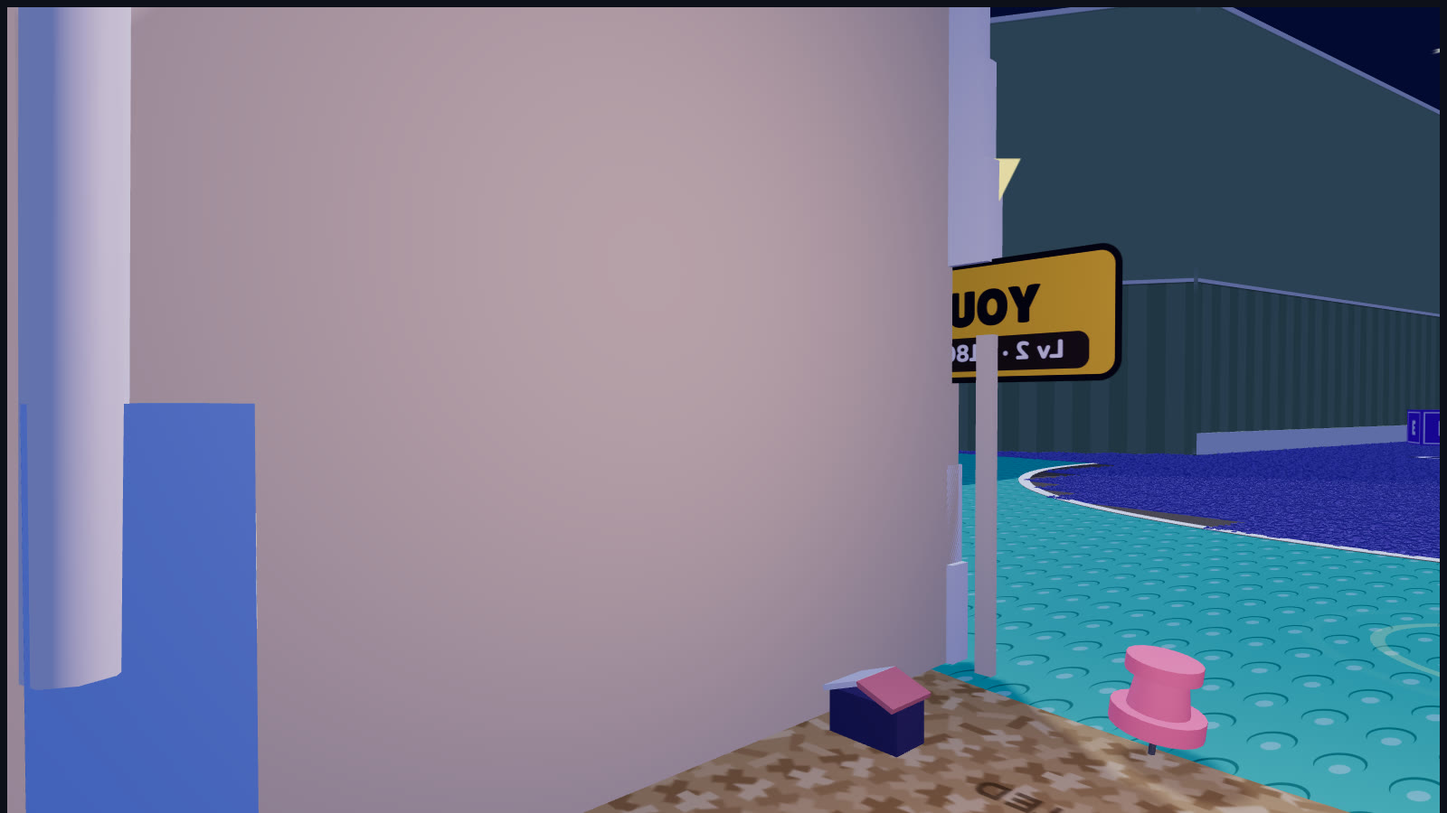
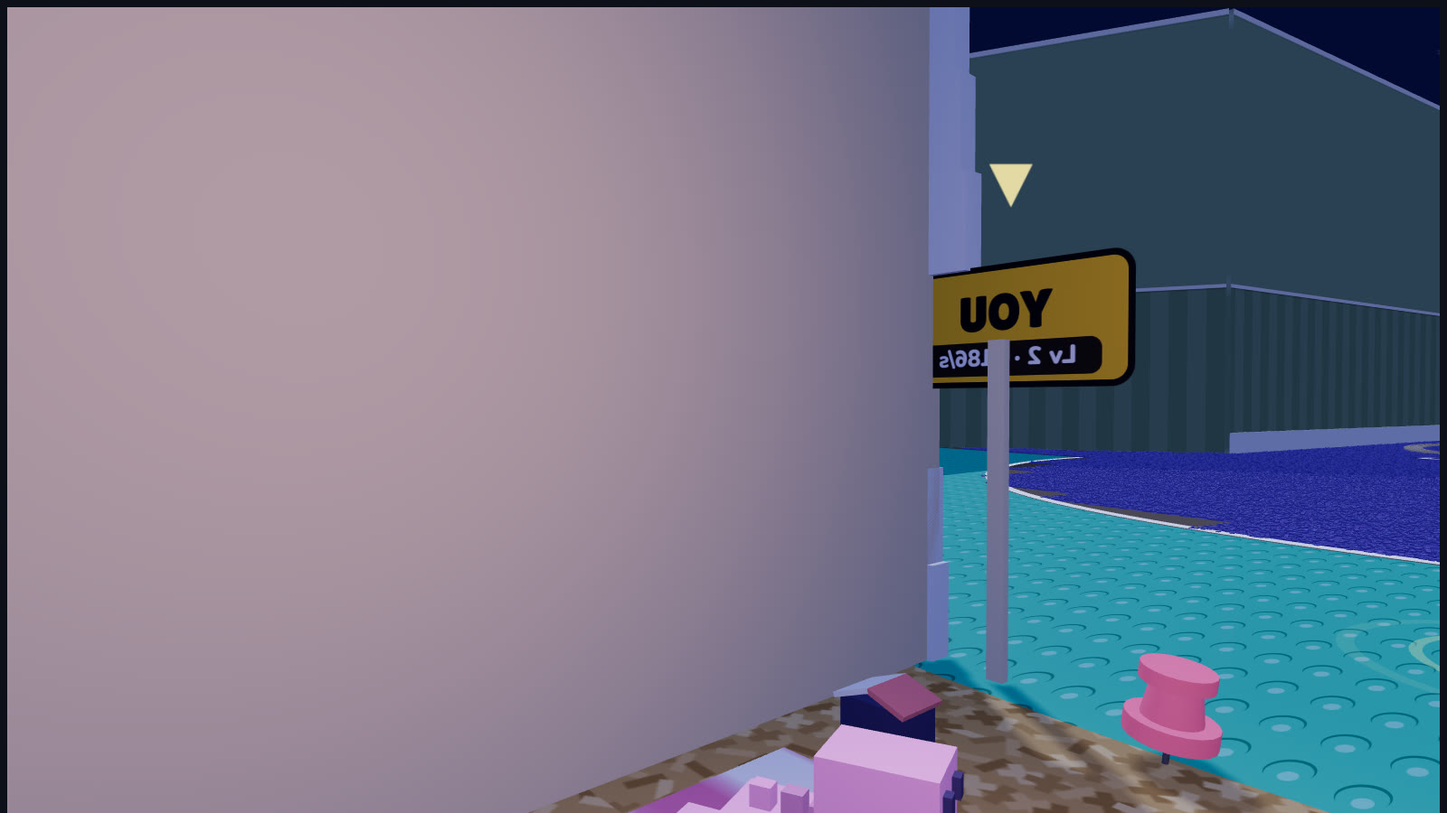
Bedroom v6 renders: winding 5-car train, bigger homes with roaming toy pens, levelled wheels, cat pounces with lights on

diff --git a/design/bedroom-v6-render.html b/design/bedroom-v6-render.html
@@ -76,7 +76,7 @@ html.shot .view{aspect-ratio:auto;height:100vh;border:0;border-radius:0}
       <tbody>
         <tr><td>Room</td><td>420 wide, 1700 long, 320 tall</td><td>The hallway door (130 wide) straight ahead in the far wall</td></tr>
         <tr><td>Homes</td><td>8 in a half-circle wall, radius 340</td><td>Each 120 wide and 110 deep, open to the top plate; a safe zone 140 deep in front</td></tr>
-        <tr><td>Carpet (Small)</td><td>start–900</td><td>Noise x1; the block tower (left) and the train's long oval track</td></tr>
+        <tr><td>Carpet (Small)</td><td>start–900</td><td>Noise x1; the block tower (left) and the winding train track</td></tr>
         <tr><td>Wood (Medium)</td><td>900–1300</td><td>Noise x2; the cat, the desk (left)</td></tr>
         <tr><td>Creaky boards (Large)</td><td>1300–1700</td><td>Noise x3; the bed (right), loose planks, the baby monitor patch</td></tr>
       </tbody>
@@ -11624,8 +11624,8 @@ f 1921/18 1923/18 1924/18
    left wall and the open hallway door straight ahead. Kept simple: big readable shapes, few props.
    Night lighting follows Dylan's photo 2, "lights on" follows photo 1. Studs: x across, z down the room from the start. */
 const HW=210, LEN=1700, WALL_H=320;
-const BW=120, BD=110, N=8, CR=340, CZ0=340, STEP=22.5, HOLE_A=i=>270+(i-3.5)*STEP; // homes round the curved start wall
-const SAFE_R=200, CARPET_Z=900, WOOD_Z=1300, SH_Z=470; // safe zone r 200-340 in front of the homes; carpet (Small, x1) < 1080 < wood (Medium, x2) < 1600 < creaky (Large, x3)
+const BW=130, BD=170, N=8, CR=380, CZ0=380, STEP=22.5, HOLE_A=i=>270+(i-3.5)*STEP; // homes round the curved start wall
+const SAFE_R=240, CARPET_Z=900, WOOD_Z=1300, SH_Z=510; // safe zone r 240-380 in front of the homes; carpet (Small, x1) < 1080 < wood (Medium, x2) < 1600 < creaky (Large, x3)
 const DOOR_W=130, DOOR_H=230; // the open hallway door, centred in the far wall
 const deg=d=>d*Math.PI/180;
 const PC=(r,a)=>[r*Math.cos(deg(a)),CZ0+r*Math.sin(deg(a))];
@@ -11683,9 +11683,9 @@ function buildRoom(){
   floorLabel('CREAKY · LARGE · NOISE x3',90,WOOD_Z+50,300,'#FFB0A8');
   const base=M(0xE6E1D6,{r:.7}),trim=M(0xF1EBDD,{r:.6}),wp=wallMat(1/48,1/WALL_H),sage=M(0x8A9E78,{r:.9});
   // the curved start wall: solid wall between the homes (and at both ends), the homes themselves are open bays
-  for(let i=0;i<N-1;i++)prism([corner(i,65,0),corner(i+1,-65,0),corner(i+1,-65,BD+8),corner(i,65,BD+8)],WALL_H,[sage,wp]);
-  prism([[-(CR+10),CZ0],corner(0,-65,0),corner(0,-65,BD+8),[-(CR+BD+20),CZ0]],WALL_H,[sage,wp]);
-  prism([corner(N-1,65,0),[CR+10,CZ0],[CR+BD+20,CZ0],corner(N-1,65,BD+8)],WALL_H,[sage,wp]);
+  for(let i=0;i<N-1;i++)prism([corner(i,BW/2+5,0),corner(i+1,-BW/2-5,0),corner(i+1,-BW/2-5,BD+8),corner(i,BW/2+5,BD+8)],WALL_H,[sage,wp]);
+  prism([[-(CR+10),CZ0],corner(0,-BW/2-5,0),corner(0,-BW/2-5,BD+8),[-(CR+BD+20),CZ0]],WALL_H,[sage,wp]);
+  prism([corner(N-1,BW/2+5,0),[CR+10,CZ0],[CR+BD+20,CZ0],corner(N-1,BW/2+5,BD+8)],WALL_H,[sage,wp]);
   // shoulders in to the run, and the long walls
   [-1,1].forEach(s=>{const a=[s*(CR+10),CZ0],b=[s*HW,SH_Z],L=Math.hypot(b[0]-a[0],b[1]-a[1]);
     const w=box(8,WALL_H,L,wallMat(L/48),(a[0]+b[0])/2+s*4,0,(a[1]+b[1])/2);w.rotation.y=Math.atan2(b[0]-a[0],b[1]-a[1]);
@@ -11820,21 +11820,21 @@ function baseInterior(i,pl){
   const fc=FAIRY[L],bulbs=[];for(let k=0;k<9;k++){const x=-50+k*12.5,y=62-Math.sin(k/8*Math.PI)*1.5-2.2;const b=new THREE.Mesh(new THREE.SphereGeometry(1.2,10,8),new THREE.MeshBasicMaterial({color:k%2?fc:0xFFF1C8}));b.position.set(x,y,cz+1.6);g.add(b);const gl=glow(fc,10,.6,g);gl.position.copy(b.position);bulbs.push(gl)}
   animated.push(t=>bulbs.forEach((b,k)=>{b.material.opacity=.45+.25*Math.sin(t*2+k*1.3+i)}));
   const fl=new THREE.PointLight(fc,L===6?1.3:1,120,1.6);fl.position.set(0,50,ZM);g.add(fl);
-  // slots with the owner's awake toys; cash pile, push-pin lock, matchbook Index, spool wheel, matchbox bed
-  const capC=[0xE04848,0x4DA8FF,0x3DDC97,0xFFC93C],nSlots=SLOTS_AT[L-1],nail=M(0xB8BFC8,{m:.8,r:.3});
-  SLOT_OFFS.slice(0,nSlots).forEach(([lx,lz],k)=>{const [x,z]=at(lx,lz);let top=1.6;
-    if(L===2)padMesh('sock',g,x,z,k);else if(L===3){padMesh('brick',g,x,z,k);top=4}else if(L===4)padMesh('stump',g,x,z,k);
-    else{const col=L===7?0xFFC93C:L===5?[0xFF8FC8,0xFFFFFF,0x8FE8D0][k%3]:L===6?0x1A1430:capC[k%4];
-      const cap=new THREE.Mesh(new THREE.CylinderGeometry(6,6,1.6,20),M(col,{m:L===7||L<5?.55:.1,r:.35}));cap.position.set(x,.8,z);cap.castShadow=cap.receiveShadow=true;g.add(cap);
-      const rim=new THREE.Mesh(new THREE.TorusGeometry(6,.45,6,24),L===6?M(0x7AE8FF,{e:0x7AE8FF,ei:1.2}):M(new THREE.Color(col).multiplyScalar(.7),{m:.4,r:.4}));rim.rotation.x=Math.PI/2;rim.position.set(x,1.6,z);g.add(rim)}
-    if(k<pl.toys){const sz=k%5===4?'L':k%2?'M':'S';awakeToy(g,x,z,sz,TOY_COLS[(i*3+k)%TOY_COLS.length],k*1.3+i+(s<0?Math.PI:0),null,top-1)}});
+  // the toy pen: the back of the home is the owner's toys' own floor, dressed for the level; the toys roam it freely
+  const nail=M(0xB8BFC8,{m:.8,r:.3}),PZ0=40,PZ1=BD-12,PW=BW-14;
+  const penMat=L===1?M(0xC49A6C,{r:.9}):L===2?M(0xffffff,{map:stripeTex('#F28DB2','#FFFFFF',12),r:.95}):L===3?M(0xffffff,{map:(()=>{const t=studTex(0x3DA5FF);t.repeat.set(PW/5,(PZ1-PZ0)/5);return t})(),r:.45})
+    :L===4?M(0xffffff,{map:plankTex('#C89A62','#9C7246',2,2),r:.85}):L===5?M(0xffffff,{map:stripeTex('#FF8FC8','#FFFFFF',14),r:.6}):L===6?M(0x1A1430,{r:.4,e:0x2A1A60,ei:.4}):M(0xFFC93C,{m:.7,r:.3,e:0x5A3A00,ei:.2});
+  box(PW,.6,PZ1-PZ0,penMat,0,0,-(PZ0+PZ1)/2,null,g);
+  if(L===6)[PZ0,PZ1].forEach(z=>box(PW,.8,1,M(0x7AE8FF,{e:0x7AE8FF,ei:1.6}),0,.4,-z,null,g));
+  for(let k=0;k<pl.toys;k++){const sz=k%5===4?'L':k%2?'M':'S',x=-PW/2+8+((k*37+i*11)%(PW-16)),z=-(PZ0+6+((k*53+i*7)%(PZ1-PZ0-12)));
+    awakeToy(g,x,z,sz,TOY_COLS[(i*3+k)%TOY_COLS.length],k*1.7+i,null,0);const r=roamers.pop();r.pen=[-PW/2+6,PW/2-6,-(PZ1-6),-(PZ0+4)];r.speed*=.8;penToys.push(r)}
   {const [x,z]=at(28,14);const th=new THREE.Mesh(new THREE.CylinderGeometry(5.5,4.8,8,22,1,true),M(0xC9CED8,{m:.8,r:.3,side:THREE.DoubleSide}));th.position.set(x,4,z);g.add(th);
     const coin=M(0xF2C94C,{m:.7,r:.3,e:0x6B4E00,ei:.25});for(let k=0;k<16;k++){const c=new THREE.Mesh(new THREE.CylinderGeometry(1.8,1.8,.6,14),coin);const an=k*2.4,rr=k<10?Math.sqrt(k)*1.1:4+((k*3)%5);c.position.set(x+Math.cos(an)*rr,k<10?6+Math.max(0,3-rr):.3,z+Math.sin(an)*rr);c.rotation.set(Math.sin(k)*.4,0,Math.cos(k)*.4);g.add(c)}}
   {const [x,z]=at(-30,12),pin=new THREE.Group();pin.position.set(x,0,z);pin.rotation.z=.12;g.add(pin);const red=M(pl.locked?0x8A1F2A:0xFF4D5E,{r:.35,e:pl.locked?0:0x5A0A12,ei:.5});
     const nd=new THREE.Mesh(new THREE.CylinderGeometry(.35,.35,3,8),nail);nd.position.y=1.5;pin.add(nd);
     [[4.5,4.5,2,4],[2.4,3,4,7],[3.6,3.6,1.6,9.6]].forEach(([a,b,h,y])=>{const m=new THREE.Mesh(new THREE.CylinderGeometry(a,b,h,20),red);m.position.y=y;m.castShadow=true;pin.add(m)})}
   {const [x,z]=at(-52,30);box(9,5,5,M(0x1A1430,{r:.4}),x,0,z,null,g);[-1,1].forEach(q=>{const c=box(5,.6,7,M(q<0?0xE04848:0xF4F1E8,{r:.6}),x+q*2.3,5.6,z,null,g);c.rotation.z=q*-.35})}
-  {const [x,z]=at(50,22);trainingWheel(g,x,z)}
+  {const [x,z]=at(50,22);levelWheel(g,x,z,L)}
   {const [x,z]=at(0,24);box(16,3.4,10,M(0xE8D2A8,{r:.8}),x,0,z,null,g);box(9,3.8,10.4,M(0x2F6FB9,{r:.6}),x+4,0,z,null,g);box(11,1,8,M(0xffffff,{map:stripeTex('#F28DB2','#FFFFFF',6),r:.95}),x-1.5,3.4,z,null,g);
     const sp=new THREE.Mesh(new THREE.RingGeometry(9,10.5,32),new THREE.MeshBasicMaterial({color:0x3DDC97,transparent:true,opacity:.6,side:THREE.DoubleSide}));sp.rotation.x=-Math.PI/2;sp.position.set(x,.12,z);g.add(sp)}
   if(L===7)[[-56,6],[56,6]].forEach(([lx,lz])=>{const [x,z]=at(lx,lz);for(let k=0;k<12;k++){const c=new THREE.Mesh(new THREE.CylinderGeometry(3,3,1,16),gold);c.position.set(x,.5+k*1.05,z);g.add(c)}});
@@ -11845,6 +11845,27 @@ function baseInterior(i,pl){
   if(pl.me){const arrow=textSprite('▼',{w:64,h:64,sx:9,sy:9,bg:null,color:'#FFC93C',font:'900 60px Nunito, sans-serif',parent:g});arrow.position.set(54,66,0);animated.push(t=>{arrow.position.y=66+Math.sin(t*3)*1.5})}
   if(pl.locked){const bar=M(0xFF4D5E,{r:.4,m:.3,e:0x5A0A12,ei:.6});for(let k=0;k<12;k++){const b=new THREE.Mesh(new THREE.CylinderGeometry(.8,.8,30,10),bar);b.position.set(-55+k*10,15,1);b.castShadow=true;g.add(b)}box(BW,1.6,1.6,bar,0,30,1,null,g)}
 }
+
+// Toys wander their home's pen: pick a spot, walk there with a hop, pause, pick another.
+const penToys=[];
+function penRoam(dt,t){penToys.forEach(r=>{const p=r.t.position,[x0,x1,z0,z1]=r.pen;
+  if(r.wait>0){r.wait-=dt;p.y=r.y0+Math.abs(Math.sin(t*2+r.ph))*.25;return}
+  if(r.tx===undefined||Math.hypot(r.tx-p.x,r.tz-p.z)<.8){r.tx=x0+Math.random()*(x1-x0);r.tz=z0+Math.random()*(z1-z0);r.wait=.6+Math.random()*2.5;return}
+  const dx=r.tx-p.x,dz=r.tz-p.z,d=Math.hypot(dx,dz),s=Math.min(d,r.speed*dt);p.x+=dx/d*s;p.z+=dz/d*s;p.y=r.y0+Math.abs(Math.sin(t*9+r.ph))*.9;
+  const want=Math.atan2(-dz,dx);let diff=want-r.t.rotation.y;diff=Math.atan2(Math.sin(diff),Math.cos(diff));r.t.rotation.y+=diff*Math.min(1,dt*6)})}
+// The Speed wheel levels up with the home: bigger, and made of better stuff each level.
+function levelWheel(g,x,z,L){
+  const R=6.5+L*.55,W=7+L*.3,w=new THREE.Group();w.position.set(x,R+2.2,z);g.add(w);const spin=new THREE.Group();w.add(spin);
+  const look={1:[0xD9B27C,0xFFC93C,0x8A5A34],2:[0xF28DB2,0xFFFFFF,0x7FD6E8],3:[0xE04848,0xFFC93C,0x4DA8FF],4:[0xB07A48,0xE8C890,0x6B4A2E],5:[0xFF8FC8,0xFFFFFF,0x8FE8D0],6:[0x1A1430,0x7AE8FF,0x9B7BFF],7:[0xFFC93C,0xFFF1B0,0xD9A21E]}[L];
+  const side=M(look[0],{r:L===7?.3:.7,m:L===7?.75:0}),rung=M(look[1],{r:.5,e:L===6?look[1]:0,ei:L===6?1.4:1}),frame=M(look[2],{r:.6,m:L===7?.7:0});
+  [-W/2,W/2].forEach(sx=>{const d=new THREE.Mesh(new THREE.CylinderGeometry(R,R,.9,32),side);d.rotation.z=Math.PI/2;d.position.x=sx;spin.add(d);
+    if(L>=3){const rim=new THREE.Mesh(new THREE.TorusGeometry(R,.5,8,32),L===6?M(look[2],{e:look[2],ei:1.5}):frame);rim.rotation.y=Math.PI/2;rim.position.x=sx*1.06;spin.add(rim)}});
+  const nr=14+L*2;for(let k=0;k<nr;k++){const a=k/nr*Math.PI*2,r2=new THREE.Mesh(new THREE.CylinderGeometry(.4,.4,W-.2,8),rung);r2.rotation.z=Math.PI/2;r2.position.set(0,Math.cos(a)*(R-.5),Math.sin(a)*(R-.5));spin.add(r2)}
+  [-W/2-1.4,W/2+1.4].forEach(sx=>{box(1.4,R+2.2,1.4,frame,sx,-R-2.2,-3,null,w);box(1.4,R+2.2,1.4,frame,sx,-R-2.2,3,null,w);box(1.6,1.6,7.6,frame,sx,-1,0,null,w)});
+  if(L===7)glow(0xFFE07A,R*3.4,.35,w);if(L===6)glow(0x7AE8FF,R*3.4,.3,w);
+  const tag=textSprite(`SPEED · Lv ${L}`,{w:256,h:56,sx:13,sy:2.85,font:'900 30px Nunito, sans-serif',bg:'rgba(77,168,255,.95)',color:'#1A1430',parent:w});tag.position.set(0,R+3,0);
+  animated.push(t=>{spin.rotation.x=-t*(1.2+L*.25)})}
+
 function bases(){BASES.forEach((p,i)=>baseInterior(i,p))}
 // Studs on a top surface: one tiled texture on a thin plane, not thousands of parts.
 function studTop(w,d,col,x,y,z,parent,rep=5){const t=studTex(col);t.repeat.set(w/rep,d/rep);const m=new THREE.Mesh(new THREE.PlaneGeometry(w,d),M(0xffffff,{map:t,r:.45}));m.rotation.x=-Math.PI/2;m.position.set(x,y+.08,z);m.receiveShadow=true;(parent||root).add(m);return m}
@@ -12021,15 +12042,15 @@ function glowTex(){if(glowTex.t)return glowTex.t;const c=document.createElement(
 function glow(color,size,opacity=.6,parent){const s=new THREE.Sprite(new THREE.SpriteMaterial({map:glowTex(),color,transparent:true,opacity,blending:THREE.AdditiveBlending,depthWrite:false,fog:false}));s.scale.set(size,size,1);(parent||root).add(s);return s}
 function starTex(){if(starTex.t)return starTex.t;const c=document.createElement('canvas');c.width=c.height=64;const g=c.getContext('2d');g.fillStyle='#fff';g.shadowColor='#fff';g.shadowBlur=8;g.beginPath();for(let k=0;k<10;k++){const r=k%2?11:28,a=-Math.PI/2+k*Math.PI/5;g.lineTo(32+Math.cos(a)*r,32+Math.sin(a)*r)}g.fill();starTex.t=new THREE.CanvasTexture(c);return starTex.t}
 /* ---------- Landmarks ---------- */
-const TOWER=[65,820];
-// the train track: an oval (stadium) centred on the run, straights at x = +-TRACK_X, ends swinging across the run
-const TRACK_X=120,TRACK_ZC=910,TRACK_HL=180,TRACK_P=4*TRACK_HL+2*Math.PI*TRACK_X;
-function trackPt(s){s=((s%TRACK_P)+TRACK_P)%TRACK_P;const R2=TRACK_X,L=2*TRACK_HL,A=Math.PI*R2;
-  if(s<L)return [R2,TRACK_ZC-TRACK_HL+s,0,1];s-=L;
-  if(s<A){const f=s/R2;return [R2*Math.cos(f),TRACK_ZC+TRACK_HL+R2*Math.sin(f),-Math.sin(f),Math.cos(f)]}s-=A;
-  if(s<L)return [-R2,TRACK_ZC+TRACK_HL-s,0,-1];s-=L;
-  const f=Math.PI+s/R2;return [R2*Math.cos(f),TRACK_ZC-TRACK_HL+R2*Math.sin(f),-Math.sin(f),Math.cos(f)]}
-const nearTrack=(x,z,r)=>{const d=z>TRACK_ZC-TRACK_HL&&z<TRACK_ZC+TRACK_HL?Math.abs(Math.abs(x)-TRACK_X):Math.abs(Math.hypot(x,z-(z>TRACK_ZC?TRACK_ZC+TRACK_HL:TRACK_ZC-TRACK_HL))-TRACK_X);return d<8+r};
+const TOWER=[45,800];
+// the train track: a winding loop. It snakes down the left side, crosses the run by the bed, snakes back up the right
+// side and crosses again near the start, so the train covers a lot of ground and cuts across the run twice.
+const TRACK_CURVE=new THREE.CatmullRomCurve3([[140,640],[175,760],[125,880],[165,1000],[115,1120],[140,1220],[40,1250],[-70,1235],
+  [-150,1170],[-105,1050],[-160,930],[-100,810],[-150,700],[-110,610],[-20,585],[70,600]].map(([x,z])=>new THREE.Vector3(x,0,z)),true,'centripetal');
+const TRACK_P=TRACK_CURVE.getLength();
+function trackPt(s){const u=(((s%TRACK_P)+TRACK_P)%TRACK_P)/TRACK_P,p=TRACK_CURVE.getPointAt(u),t=TRACK_CURVE.getTangentAt(u);return [p.x,p.z,t.x,t.z]}
+const TRACK_SAMPLES=Array.from({length:500},(_,k)=>trackPt(k*TRACK_P/500));
+const nearTrack=(x,z,r)=>TRACK_SAMPLES.some(([px,pz])=>Math.hypot(px-x,pz-z)<8+r);
 function letterTex(ch,bg,fg){return canvasTex((g,S)=>{g.fillStyle=bg;g.fillRect(0,0,S,S);g.fillStyle='rgba(255,255,255,.9)';g.fillRect(14,14,S-28,S-28);g.fillStyle=bg;g.fillRect(24,24,S-48,S-48);g.fillStyle=fg;g.font='400 150px "Lilita One", sans-serif';g.textAlign='center';g.textBaseline='middle';g.fillText(ch,S/2,S/2+8)},256)}
 let TRAIN=null;
 function blockTower(){
@@ -12041,7 +12062,7 @@ function blockTower(){
   for(let k=0;k<20;k++){const th=deg(200+k*30),r=27,g=new THREE.Group();g.position.set(tx+Math.cos(th)*r,6*k,tz+Math.sin(th)*r);g.rotation.y=-th;root.add(g);
     box(22,4,13,SC[k%5],0,2,0,{r:.35},g);studTop(22,13,SC[k%5],0,6,0,g,4.4)}
   // a fallen block between the track and the wall, as a hiding spot
-  const fb=box(30,30,30,M(0xffffff,{map:letterTex('E','#9246D4','#FFFFFF'),r:.55}),168,0,760);fb.rotation.set(0,.6,0);
+  const fb=box(30,30,30,M(0xffffff,{map:letterTex('E','#9246D4','#FFFFFF'),r:.55}),-188,0,760);fb.rotation.set(0,.6,0);
   // the wooden train track: a long oval down both sides of the run that swings across it at each end
   const wood=M(0xD2A86E,{r:.75}),groove=M(0x8A6236,{r:.9}),n=Math.ceil(TRACK_P/4.2),m4=new THREE.Matrix4(),q=new THREE.Quaternion(),up=new THREE.Vector3(0,1,0),one=new THREE.Vector3(1,1,1);
   const bed=new THREE.InstancedMesh(new THREE.BoxGeometry(4.6,1.6,11),wood,n),gr=new THREE.InstancedMesh(new THREE.BoxGeometry(4.6,.3,1),groove,n*2);
@@ -12051,17 +12072,17 @@ function blockTower(){
   bed.receiveShadow=true;root.add(bed,gr);
   TRAIN=new THREE.Group();root.add(TRAIN);const cars=[];
   const wheel=(g,x,z)=>{const w=new THREE.Mesh(new THREE.CylinderGeometry(2.4,2.4,1.4,14),M(0x1A1430,{r:.5}));w.rotation.x=Math.PI/2;w.position.set(x,2.8,z);g.add(w)};
-  for(let k=0;k<3;k++){const g=new THREE.Group();g.scale.setScalar(1.4);TRAIN.add(g);cars.push(g);const c=[0xE04848,0x4DA8FF,0x3DDC97][k];
+  for(let k=0;k<5;k++){const g=new THREE.Group();g.scale.setScalar(1.4);TRAIN.add(g);cars.push(g);const c=[0xE04848,0x4DA8FF,0x3DDC97,0xFFC93C,0x9B7BFF][k];
     box(18,6,10,c,0,3,0,{r:.4},g);[-6,6].forEach(x=>[-5.4,5.4].forEach(z=>wheel(g,x,z)));
     if(k===0){box(7,10,10,c,-5,9,0,{r:.4},g);box(8,2,11,M(0x1A1430),-5,19,0,null,g);const ch=new THREE.Mesh(new THREE.CylinderGeometry(1.8,2.4,6,10),M(0x1A1430));ch.position.set(5,12,0);g.add(ch);box(2,4,6,M(0xFFC93C),9.5,5,0,null,g);glow(0xFFE6A0,14,.8,g).position.set(10.5,7,0)}
-    else{box(8,8,8,[0xFFC93C,0xFF7AA8][k-1],-3,9,0,{r:.4},g);box(6,6,6,[0x9246D4,0xFFC93C][k-1],4,9,0,{r:.4},g)}
+    else{box(8,8,8,[0xFFC93C,0xFF7AA8,0x4DA8FF,0x3DDC97][k-1],-3,9,0,{r:.4},g);box(6,6,6,[0x9246D4,0xFFC93C,0xE04848,0xFF7AA8][k-1],4,9,0,{r:.4},g)}
     g.traverse(o=>{if(o.isMesh)o.castShadow=true})}
   animated.push(t=>{cars.forEach((g,k)=>{const [x,z,hx,hz]=trackPt(t*60+300-k*27);g.position.set(x,1.6+Math.abs(Math.sin(t*14+k))*.25,z);g.rotation.y=Math.atan2(-hz,hx)})});
 }
-let CAT_POS=null;
+let CAT_POS=null,CAT_G=null,CAT_ALERT=null;
 function cat(){
   // a big orange tabby crouched on the wood ring, tail swishing, bell on its collar (you hear it before you see it)
-  const [x,z]=[-20,1150],g=new THREE.Group();g.position.set(x,0,z);g.rotation.y=.4;root.add(g);CAT_POS=[x,z]; // facing along the ring, toward smaller angles
+  const [x,z]=[-20,1150],g=new THREE.Group();g.position.set(x,0,z);g.rotation.y=.4;root.add(g);CAT_POS=[x,z];CAT_G=g; // facing along the ring, toward smaller angles
   const fur=M(0xF28C28,{r:.85}),dark=M(0xC4601A,{r:.85}),cream=M(0xFFE3C2,{r:.85});
   const body=box(70,28,32,fur,0,16,0,null,g);[-22,-6,10,26].forEach(sx=>box(6,28.4,32.4,dark,sx,16,0,null,g));
   box(40,4,26,cream,6,14,0,null,g);
@@ -12121,7 +12142,7 @@ function babyMonitor(){
 /* ---------- Hazards ---------- */
 // footprints of the big pieces, so toys and hazards stay clear of them
 const FOOT=[[-210,1275,-10,1600],[-210,1610,-134,1690],[106,1330,212,1510],[40,1385,112,1455],[-70,1640,70,1700]];
-const FOOT_C=[[65,820,40],[168,760,26]];
+const FOOT_C=[[45,800,40],[-188,760,26]];
 const blocked=(x,z,r)=>FOOT.some(([x0,z0,x1,z1])=>x>x0-r&&x<x1+r&&z>z0-r&&z<z1+r)||FOOT_C.some(([cx,cz,cr])=>Math.hypot(x-cx,z-cz)<cr+r)||Math.abs(x)>HW-r-6||nearTrack(x,z,r);
 function looseBoards(){
   const plank=M(0x9A7853,{r:.85}),edge=M(0x3A2818,{r:1});
@@ -12134,7 +12155,7 @@ function brick(x,z,c,rot,y=0){const g=new THREE.Group();g.position.set(x,y,z);g.
 function hazards(){
   cat();looseBoards();babyMonitor();
   // mouse traps by the walls, out of the middle of the run
-  mouseTrap(-188,850,.15);mouseTrap(188,1000,-.15);mouseTrap(-188,1150,.1);mouseTrap(190,1290,-.1);
+  mouseTrap(-188,850,.15);mouseTrap(190,880,-.15);mouseTrap(-188,1150,.1);mouseTrap(190,1290,-.1);
   // squeaky ducks and loose toy bricks near the Large toys (they squeak and clack)
   squeakyDuck(50,1360,1);squeakyDuck(85,1500,4);
   const BC=[0xE04848,0xFFC93C,0x4DA8FF,0x3DDC97];[[-30,1000],[50,1180],[40,1300],[0,1440],[60,960]].forEach(([x,z],k)=>{brick(x,z,BC[k%4],k*.9);if(k%2===0)brick(x+1.5,z+.8,BC[(k+2)%4],k*.9+.4,3.8)});
@@ -12166,7 +12187,7 @@ function players(){
   const top=avatar(0,0,0x4DA8FF,0,{cap:0xFF7AA8});top.position.set(TOWER[0]+4,120.2,TOWER[1]);faceToward(top,0,1100);
   // heading out of the safe zone, jumping clear of the train, fleeing the cat, and one at the hallway door
   [[-40,420,0xFFC93C,0xE04848],[30,400,0x9B7BFF,0x3DDC97]].forEach(([x,z,c,cap])=>{const a=avatar(x,z,c,0,{cap});faceToward(a,x,z+100);animateAvatar(a,'run',1.4)});
-  const jump=avatar(100,700,0xFF7AA8,0,{cap:null});faceToward(jump,70,660);animateAvatar(jump,'run',1.6);
+  const jump=avatar(-80,600,0xFF7AA8,0,{cap:null});faceToward(jump,-60,560);animateAvatar(jump,'run',1.6);
   const flee=avatar(30,1100,0x3DDC97,0,{cap:0x1A1430});faceToward(flee,60,1040);animateAvatar(flee,'run',1.6);
   const out=avatar(10,1660,0x4DA8FF,0,{cap:0xFFC93C});faceToward(out,10,1760);animateAvatar(out,'run',1.3);
   // a raider inside mia.ttv's gold vault
@@ -12208,6 +12229,9 @@ function setLights(day){
   HEMI.color.setHex(day?0xFFF3DE:0x4058D8);HEMI.groundColor.setHex(day?0x9A8466:0x15132E);HEMI.intensity=day?1.1:.55;
   AMB.color.setHex(day?0xFFF1DC:0x26348A);AMB.intensity=day?.42:.22;
   S(MOON,day?0:.34);S(SUN,day?.6:0);S(CEILL,day?1.05:0);S(LAMP,day?3:2.4);S(WINDOW,day?.35:1.2);S(MONITOR,day?.45:.9);S(NLIGHT,day?.25:.8);
+  // with the lights on the cat gets aggressive: it leaves its patrol and pounces at the nearest mouse
+  if(CAT_G){if(!CAT_ALERT){CAT_ALERT=textSprite('!',{w:64,h:64,sx:14,sy:14,bg:'rgba(255,77,94,.95)',color:'#FFFFFF',font:'900 56px Nunito, sans-serif'});}
+    if(day){CAT_G.position.set(-40,7,1030);CAT_G.rotation.set(0,Math.atan2(-70,70),.18);CAT_ALERT.position.set(-40,64,1030)}else{CAT_G.position.set(-20,0,1150);CAT_G.rotation.set(0,.4,0)}CAT_ALERT.visible=day}
   CEIL.material.color.setHex(day?0xEFE8D8:0x1B2142);renderer.toneMappingExposure=day?.98:.98}
 
 function buildCams(){
@@ -12216,7 +12240,7 @@ function buildCams(){
     ['lightson','Lights on',{pos:[0,290,110],look:[0,0,1000],day:true,flash:true,cap:'Lights on (photo 1): the same room when the Kid wakes up and sits up. The sage walls, wood and colours read true. Seen from anywhere, it means run.'}],
     ['map','Top-down',{pos:[0,2000,880],look:[0,0,879],top:true,xray:true,cap:'Top-down: the curved wall of 8 homes and the safe strip at the start, then the three floor bands with their toys, the bed and nightstand on the right, the desk on the left (as you run toward the door), and the hallway beyond the door.'}],
     ['homes','The homes',{pos:[0,150,760],look:[0,40,170],cap:'Looking back up the run at the curved start wall: all 8 homes side by side in the wall, wall between each one, fronts open so you can see who has what. The teal strip in front of them is the safe zone.'}],
-    ['safe','Leaving home',{pos:[0,14,330],look:[0,22,1300],cap:'What you see stepping out of the safe zone: the bands of toys getting bigger the further you go, and the hallway door at the end.'}],
+    ['safe','Leaving home',{pos:[0,14,370],look:[0,22,1300],cap:'What you see stepping out of the safe zone: the bands of toys getting bigger the further you go, and the hallway door at the end.'}],
     ['run','Down the run',{pos:[30,9,850],look:[10,30,1700],cap:'Mouse height in the carpet band, looking down the run: the wood and creaky bands ahead, the bed on the right, the desk on the left, the open door straight on.'}],
     ['bases','The row of homes',{pos:BP(5,20,40,-260),look:BP(1,0,40,40),cap:'Along the row of homes from the safe strip: open fronts with torn drywall edges, solid wall between neighbours.'}],
     ['yours','Your base',{pos:BP(3,0,32,-150),look:BP(3,0,30,60),cap:'Your base (Level 2, sock-lined): OSB backing, pine studs and blocking, white cables stapled up to the top plate, an outlet box, a fairy light, your toys on their slots, the matchbox bed, the push-pin lock, the spool wheel and the matchbook Index.'}],
@@ -12224,7 +12248,7 @@ function buildCams(){
     ['across','Across the room',{pos:BP(3,0,15,100),look:BP(6,0,30,20),cap:'From the back of your home, looking out across the safe strip at the homes further round the curve.'}],
     ['rich','Level 7 base',{pos:BP(4,0,32,-150),look:BP(4,0,24,60),cap:'mia.ttv\'s Level 7 golden vault: gold over the framing, coin pillars, 20 slots, and sneakyPete raiding it.'}],
     ['l1','Level 1 base',{pos:BP(1,0,32,-150),look:BP(1,0,24,60),cap:'Bloxer99\'s Level 1 base, locked: brown wool insulation between the studs (photo 3), bottle-cap slots and red bars across the front.'}],
-    ['tower','Block tower and train',{pos:[-60,70,640],look:[60,45,820],cap:'The tower on the left of the carpet band, and the train track: a long oval down both sides of the run that swings across it at each end. Time your crossing; get hit and you drop your toy.'}],
+    ['tower','Block tower and train',{pos:[-70,70,620],look:[50,40,800],cap:'The tower on the left of the carpet band, and the train track: a winding loop that snakes down both sides of the run and cuts across it twice. Five cars long. Time your crossing; get hit and you drop your toy.'}],
     ['cat','The cat',{pos:[-80,18,1060],look:[-10,18,1145],cap:'The cat prowls the wood band. You hear its bell first; get close and it pounces.'}],
     ['bed','The bed',{pos:[110,110,1150],look:[-110,55,1450],cap:'The Giant Kid asleep along the right-hand wall: voxel headboard with glow stars, the quilted blue duvet, his arm hanging over the Large toys, and the nightstand lamp by his feet. The baby monitor\'s green patch counts noise double.'}],
     ['flash','Flashlight at 80+',{pos:[150,140,850],look:[-100,80,1500],flash:true,cap:'At 80+ noise the Kid sits up and sweeps a flashlight back down the run. Get caught in the beam carrying a toy and you drop it.'}],
@@ -12271,7 +12295,7 @@ function init(){
 function resize(){const b=document.getElementById('view').getBoundingClientRect();renderer.setSize(b.width,b.height,false);camera.aspect=b.width/b.height;camera.updateProjectionMatrix()}
 let frames=0;
 function loop(){
-  requestAnimationFrame(loop);const t=clock.getElapsedTime(),dt=Math.min(.05,t-(loop.pt??t));loop.pt=t;roam(dt,t);
+  requestAnimationFrame(loop);const t=clock.getElapsedTime(),dt=Math.min(.05,t-(loop.pt??t));loop.pt=t;roam(dt,t);penRoam(dt,t);
   animated.forEach(f=>f(t));
   ripples.forEach(o=>{const p=((t*.6)+o.o)%1;o.r.scale.setScalar(6+p*26);o.r.material.opacity=.75*(1-p)});
   glows.forEach(g=>{const on=((t+g.ph)%6)<1.2;g.m.userData.mat.emissive.setHex(on?g.c:0);g.m.userData.mat.emissiveIntensity=on?.9:0});

diff --git a/design/bedroom-v6-review.html b/design/bedroom-v6-review.html
@@ -57,10 +57,13 @@ dialog p{color:var(--ink);padding:10px 4px 0;font-weight:700}
       <ul>
         <li>All 8 homes in one curved row inside the wall, with solid wall between each home.</li>
         <li>Home fronts are open (drywall torn away), so you see everyone's toys and can look up the studs, blocking and cables to the top.</li>
+        <li>Bigger homes, 130 wide and 170 deep, so the toys can roam: the back of each home is a toy pen, dressed for the level (cardboard, socks, bricks, wood, candy, neon, gold), and the toys wander it freely instead of standing on slots.</li>
+        <li>The Speed hamster wheel levels up with the home: bigger, faster and made of better stuff each level, up to a gold wheel at Level 7.</li>
         <li>A teal safe zone in front of the homes, 140 deep: bigger than the first strip, still much smaller than a whole band.</li>
         <li>A smaller room so the toys and homes read bigger: the run is 420 wide and 1700 long, with walls 320 tall. The bed and furniture are a bit smaller, and the sleeping toys under blankets are about 35% bigger.</li>
         <li>Three bands down the run: carpet (Small toys), wood (Medium), creaky boards (Large), each clearly coloured and labelled.</li>
-        <li>The train track is a long oval down both sides of the run that swings across it at each end, so the train covers about 1,700 studs a lap and you have to time your crossing.</li>
+        <li>The train track is a winding loop: it snakes down both sides of the run and cuts across it twice, near the start and by the bed. The train has 5 cars counting the engine.</li>
+        <li>With the lights on, the cat gets aggressive: it leaves its patrol and pounces at the nearest mouse (photo 16).</li>
         <li>The hallway door is straight ahead at the end. The bed is along the right-hand wall.</li>
         <li>Much less clutter: no sock heap, bookshelf, beanbag, rug or scattered props. Hazards stay: cat, mouse traps, loose boards, baby monitor, flashlight, the train.</li>
       </ul>
@@ -69,7 +72,7 @@ dialog p{color:var(--ink);padding:10px 4px 0;font-weight:700}
       <h2>Still to decide</h2>
       <ul>
         <li>Scale: does the room now feel the right size next to the toys and homes, or shrink it more?</li>
-        <li>The start area round the homes is wider than the run (it needs that width to fit 8 homes in the curve). OK, or would you rather have fewer homes per curve?</li>
+        <li>The start area round the homes is wider than the run: it needs that width to fit 8 bigger homes in the curve. OK, or would you rather have a different shape?</li>
         <li>Night look (photo 2 lighting) as the default, lights-on (photo 1) when the Kid wakes: still right?</li>
       </ul>
     </div>
@@ -87,21 +90,21 @@ dialog p{color:var(--ink);padding:10px 4px 0;font-weight:700}
 <script>
 const PHOTOS=[
   ['hero','The run','From above the homes, looking down the whole room: carpet, wood, creaky boards, the bed and the open door.'],
-  ['homes','The homes','Looking back at the curved wall: 8 homes side by side, wall between each, open fronts, the teal safe zone.'],
-  ['yours','Your home','Level 2, sock-lined: studs, OSB backing, cables up to the top plate, an outlet box, a fairy light, your toys on their slots.'],
-  ['lookup','Looking up','Inside your home: the studs, blocking and cables run all the way to the top plate, 360 studs up.'],
+  ['homes','The homes','Looking back at the curved wall: 8 homes side by side, wall between each, open fronts, toys roaming the pens, the teal safe zone.'],
+  ['yours','Your home','Level 2, sock-lined: studs, OSB backing, cables up to the top plate, a fairy light, your toys roaming their sock pen, and a Level 2 Speed wheel.'],
+  ['lookup','Looking up','Inside your home: the studs, blocking and cables run all the way to the top plate, 320 studs up.'],
   ['across','From inside your home','Looking out across the safe zone at the homes further round the curve.'],
   ['bases','Along the row','The homes from the safe zone: open fronts, torn drywall edges, solid wall between neighbours.'],
-  ['l1','Level 1 home','Bloxer99, locked: brown wool insulation (your photo 3), bottle-cap slots, red bars across the front.'],
-  ['rich','Level 7 home','mia.ttv\'s golden vault: gold over the framing, coin pillars, 20 slots, and a raider inside.'],
+  ['l1','Level 1 home','Bloxer99, locked: brown wool insulation (your photo 3), a plain cardboard pen and wheel, red bars across the front.'],
+  ['rich','Level 7 home','mia.ttv\'s golden vault: gold over the framing, a gold pen full of toys, the gold Level 7 wheel, and a raider inside.'],
   ['safe','Leaving home','What you see stepping out of the safe zone: toys getting bigger down the run, the door at the end.'],
-  ['tower','Block tower and train','Left side of the carpet band: toy-brick steps up to a lookout. The train\'s long oval track runs past it and across the run.'],
+  ['tower','Block tower and train','Left side of the carpet band: toy-brick steps up to a lookout. The 5-car train winds past it on a loop that crosses the run twice.'],
   ['run','Down the run','Mouse height on the carpet: wood and creaky bands ahead, desk on the left, bed on the right, door straight on.'],
   ['cat','The cat','It prowls the wood band. You hear its bell first.'],
   ['bed','The bed','The Giant Kid asleep along the right-hand wall, the nightstand lamp, and the monitor\'s green noise-x2 patch.'],
   ['flash','Flashlight at 80+','He sits up and sweeps a flashlight back down the run.'],
   ['door','The hallway door','The end of the run: creaky boards, Large toys, and the door wide open to the next room.'],
-  ['lightson','Lights on','The same room when the Kid wakes (your photo 1 lighting).'],
+  ['lightson','Lights on','The same room when the Kid wakes (your photo 1 lighting). The cat drops its patrol and pounces.'],
   ['map','Top-down','The whole layout from above, ceiling removed.']
 ];
 const grid=document.getElementById('photos'),dlg=document.getElementById('zoom');
